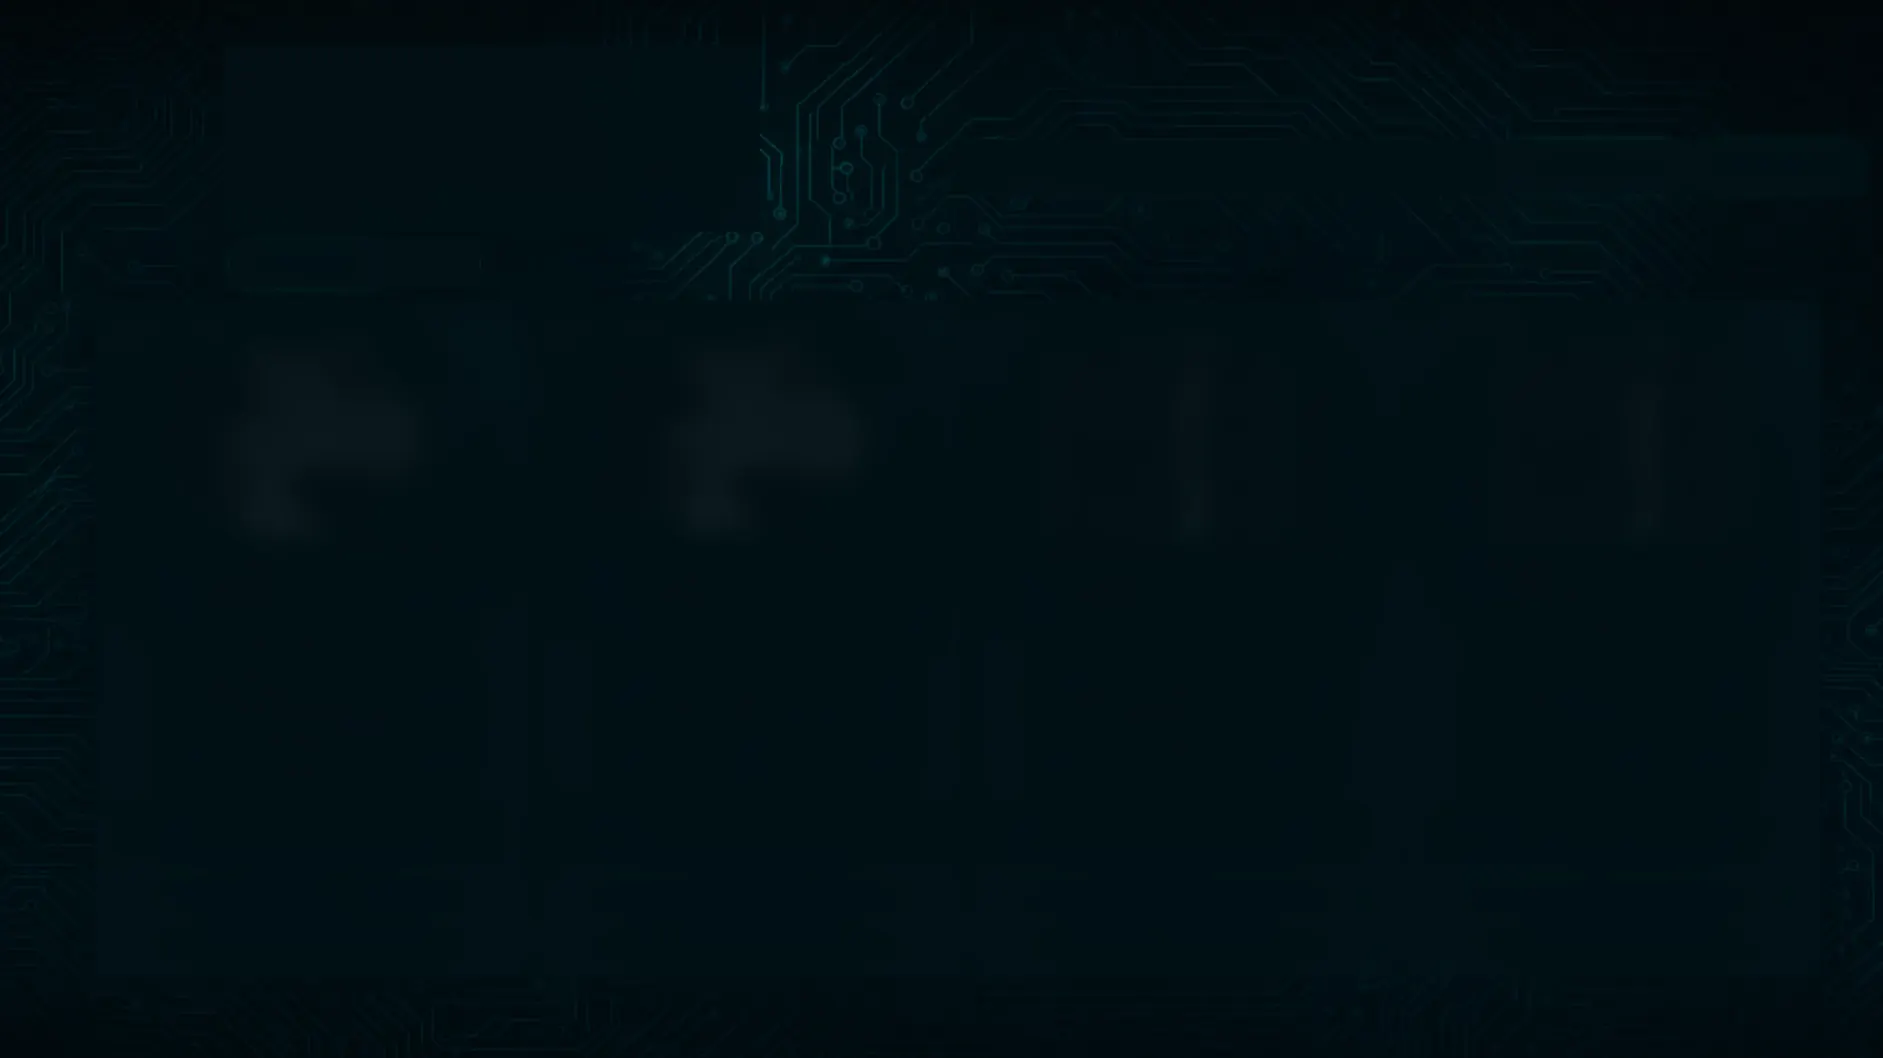
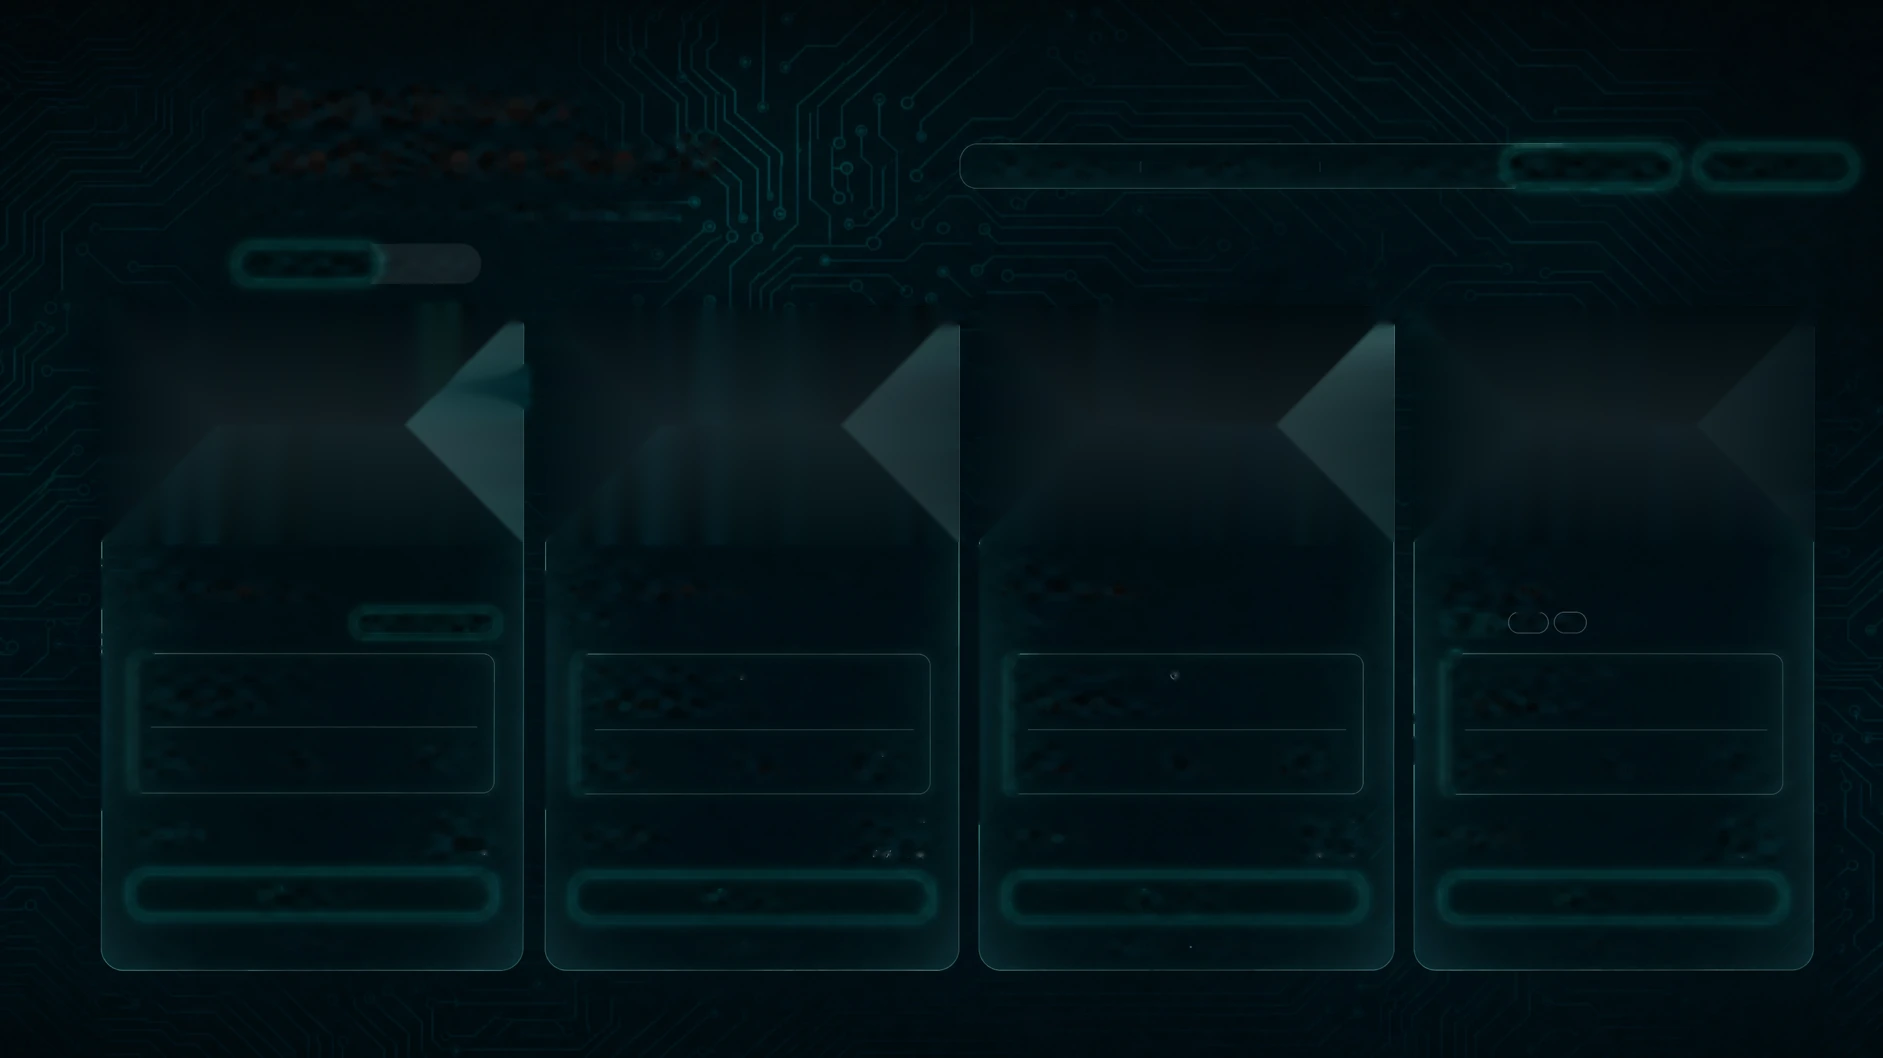
Budget laid out from the reference; miner card photos and section backgrounds from the reference

diff --git a/src/styles.css b/src/styles.css
@@ -6035,3 +6035,81 @@ main > section { position: relative; }
 .wh-bar__icon .icon { width: calc(30 * var(--s)); height: calc(30 * var(--s)); }
 .wh-bar__icon .icon { width: calc(40 * var(--s)); height: calc(40 * var(--s)); }
 .wh-btn { font-size: calc(17.2 * var(--s)); }
+@media (min-width: 1025px) {
+  #miners .miner-card__media img { width: 100%; height: 100%; object-fit: cover; object-position: center top; padding: 0; transform: none !important; }
+  #miners .miner-card { border: 1.5px solid rgba(110, 236, 224, 0.5); box-shadow: 0 0 14px rgba(70, 227, 212, 0.18), inset 0 0 26px rgba(70, 227, 212, 0.08); }
+  #miners .miner-card__media { border-bottom: 0; }
+  #miners .miner-card__cart.btn { border-width: 2px; border-color: #6ff2e6; }
+}
+@media (max-width: 1024px) { .miner-card__media img { object-fit: cover; object-position: center top; padding: 0; } }
+
+/* =========================================================
+   Budget / fleet — laid out from reference 05 (1889px wide).
+   ========================================================= */
+@media (min-width: 1025px) {
+  #budget { --b: calc(100 * var(--vw, 1vw) / 1889); padding: calc(104 * var(--b)) 0 calc(120 * var(--b)); }
+  #budget .container.budget { max-width: none; padding: 0; margin-left: calc(95 * var(--b)); grid-template-columns: calc(807 * var(--b)) calc(814 * var(--b)); column-gap: calc(55 * var(--b)); align-items: start; }
+  #budget .budget__left { padding-left: calc(9 * var(--b)); }
+  #budget .eyebrow { font-size: calc(13 * var(--b)); line-height: calc(18 * var(--b)); margin: 0 0 calc(34 * var(--b)); letter-spacing: 0.08em; }
+  #budget h2.h-section { font-size: calc(80 * var(--b)); line-height: calc(91 * var(--b)); margin: 0 0 calc(26 * var(--b)); }
+  #budget .field-label { font-size: calc(13 * var(--b)); margin-bottom: calc(26 * var(--b)); letter-spacing: 0.08em; }
+  #budget .range { max-width: calc(729 * var(--b)); height: calc(10 * var(--b)); margin-bottom: calc(32 * var(--b)); }
+  #budget .chips { gap: calc(9 * var(--b)); max-width: none; }
+  #budget .chip { min-height: calc(50 * var(--b)); padding: 0 calc(16 * var(--b)); border-radius: calc(14 * var(--b)); font-size: calc(13.5 * var(--b)); }
+  #budget .chip--input { width: calc(146 * var(--b)); }
+  #budget .stock-card { margin: calc(46 * var(--b)) 0 0 calc(-9 * var(--b)); width: calc(807 * var(--b)); height: calc(280 * var(--b)); padding: calc(22 * var(--b)) calc(30 * var(--b)) 0; }
+  #budget .stock-card img { height: calc(120 * var(--b)); margin-bottom: calc(18 * var(--b)); }
+  #budget .stock-card__count { font-size: calc(17.5 * var(--b)); }
+  #budget .stock-card__count .accent { font-size: calc(45 * var(--b)); }
+  #budget .stock-card .muted.small { font-size: calc(14 * var(--b)); }
+  #budget .caps-btn { height: calc(62 * var(--b)); padding: 0 calc(26 * var(--b)); font-size: calc(16.5 * var(--b)); border-radius: calc(18 * var(--b)); }
+  #budget .token-card { margin: calc(49 * var(--b)) 0 0 calc(-9 * var(--b)); width: calc(807 * var(--b)); height: calc(101 * var(--b)); padding: 0 calc(26 * var(--b)); font-size: calc(14.5 * var(--b)); border-radius: calc(18 * var(--b)); }
+  #budget .token-card strong { font-size: calc(16 * var(--b)); }
+  #budget .token-card__badge { width: calc(46 * var(--b)); height: calc(46 * var(--b)); font-size: calc(13 * var(--b)); }
+  #budget .budget__right { padding-top: calc(7 * var(--b)); }
+  #budget .fleet-card { height: calc(608 * var(--b)); padding: calc(60 * var(--b)) calc(34 * var(--b)) 0 calc(49 * var(--b)); }
+  #budget .fleet-card__top .mono-label { font-family: var(--font-mono); font-size: calc(13.5 * var(--b)); letter-spacing: 0.06em; }
+  #budget .live-pill { font-family: var(--font-mono); font-size: calc(12 * var(--b)); padding: calc(6 * var(--b)) calc(14 * var(--b)); }
+  #budget .fleet-card__value { font-family: var(--f-saira); font-weight: 500; font-size: calc(54 * var(--b)); line-height: 1.1; margin: calc(14 * var(--b)) 0 calc(14 * var(--b)); letter-spacing: 0.01em; }
+  #budget .fleet-card__notes { font-family: var(--f-saira); font-size: calc(17 * var(--b)); gap: calc(5 * var(--b)); }
+  #budget .fleet-card .rule-dashed { margin: calc(30 * var(--b)) 0 calc(18 * var(--b)); }
+  #budget .fleet-line { grid-template-columns: calc(92 * var(--b)) 1fr auto; gap: calc(20 * var(--b)); margin-bottom: calc(30 * var(--b)); }
+  #budget .fleet-line__thumb { width: calc(92 * var(--b)); height: calc(84 * var(--b)); padding: calc(14 * var(--b)) calc(20 * var(--b)); }
+  #budget .fleet-line__name { font-family: 'Saira', sans-serif; font-stretch: 80%; font-weight: 500; font-size: calc(21 * var(--b)); margin-bottom: calc(6 * var(--b)); }
+  #budget .fleet-line__body .mono { font-family: var(--font-mono); font-size: calc(13 * var(--b)); line-height: calc(27 * var(--b)); }
+  #budget .stepper { height: calc(72 * var(--b)); width: calc(147 * var(--b)); justify-content: space-between; border-radius: calc(18 * var(--b)); }
+  #budget .stepper output { font-size: calc(21 * var(--b)); }
+  #budget .fleet-card .btn-row { gap: calc(22 * var(--b)); }
+  #budget .caps-btn--solid { width: calc(347 * var(--b)); height: calc(72 * var(--b)); font-size: calc(16 * var(--b)); }
+  #budget .caps-btn--lg { width: calc(234 * var(--b)); height: calc(72 * var(--b)); font-size: calc(17.5 * var(--b)); padding: 0; }
+  #budget .fleet-alt { margin-top: calc(40 * var(--b)); gap: calc(20 * var(--b)); }
+  #budget .fleet-alt__item { font-size: calc(13.5 * var(--b)); }
+  #budget .fleet-alt__list::before { font-size: calc(14 * var(--b)); }
+  #budget .link-btn { font-size: calc(14.5 * var(--b)); }
+  #budget .fleet-alt__fine { font-size: calc(14 * var(--b)) !important; }
+}
+@media (min-width: 1025px) {
+  #budget .eyebrow { font-size: calc(14 * var(--b)); }
+  #budget .range { background: linear-gradient(90deg, #2bbfb2, #5ff0e2 var(--fill), rgba(80, 225, 212, 0.8) var(--fill), rgba(60, 200, 190, 0.75)); }
+  #budget .chip { border-color: rgba(70, 214, 200, 0.85); }
+  #budget .token-card { border-color: rgba(96, 214, 202, 0.6); }
+  #budget .fleet-card__value { font-size: calc(58 * var(--b)); }
+  #budget .fleet-line__body .mono { color: #c3cdcd; }
+}
+@media (min-width: 1025px) {
+  #budget .fleet-card__notes { font-size: calc(19.5 * var(--b)); gap: calc(4 * var(--b)); }
+  #budget .fleet-card__value { font-size: calc(54 * var(--b)); word-spacing: 0.12em; margin: calc(10 * var(--b)) 0 calc(18 * var(--b)); }
+  #budget .fleet-line__name { font-stretch: 75%; font-size: calc(23 * var(--b)); }
+}
+.fleet-alt > .fleet-alt__fine { display: block; }
+@media (min-width: 1025px) {
+  #budget .eyebrow { margin-bottom: calc(29 * var(--b)); }
+  #budget .field-label { margin-top: calc(-5 * var(--b)); }
+  #budget .stock-card { margin-top: calc(53 * var(--b)); }
+  #budget .fleet-card { padding-top: calc(55 * var(--b)); }
+  #budget .fleet-card .rule-dashed { margin-bottom: calc(30 * var(--b)); }
+  #budget .fleet-line { margin-bottom: calc(38 * var(--b)); }
+}
+@media (min-width: 1025px) {
+  #budget { background: #011214 url('../img/bg-budget.webp') top left / 100% auto no-repeat; }
+}

diff --git a/index.html b/index.html
@@ -10,7 +10,7 @@
     <link rel="preconnect" href="https://fonts.googleapis.com" />
     <link rel="preconnect" href="https://fonts.gstatic.com" crossorigin />
     <link
-      href="https://fonts.googleapis.com/css2?family=Saira:wdth,wght@100..125,300..700&family=Inter:wght@300;400;500;600;700&family=Inter+Tight:wght@500;600;700&family=Orbitron:wght@500;600;700;800;900&family=JetBrains+Mono:wght@400;500&display=swap"
+      href="https://fonts.googleapis.com/css2?family=Saira:wdth,wght@50..125,300..700&family=Inter:wght@300;400;500;600;700&family=Inter+Tight:wght@500;600;700&family=Orbitron:wght@500;600;700;800;900&family=JetBrains+Mono:wght@400;500&display=swap"
       rel="stylesheet"
     />
   </head>

diff --git a/src/components/MinerGrid.jsx b/src/components/MinerGrid.jsx
@@ -13,7 +13,7 @@ function MinerCard({ miner, rate }) {
         {miner.tag && <span className="tag">{miner.tag}</span>}
         {miner.bundles && <span className="ribbon ribbon--corner" aria-hidden="true"><span>Bundles</span></span>}
         {!miner.available && <span className="tag tag--muted">Ships next batch</span>}
-        <img src={miner.image} alt={miner.name} loading="lazy" />
+        <img src={miner.cooling === 'Hydro' ? 'img/card-hydro.webp' : 'img/card-air.webp'} alt={miner.name} width="411" height="231" loading="lazy" decoding="async" />
       </div>
       <div className="miner-card__body">
         <p className="mono-label mono-label--muted">{miner.brand}</p>
